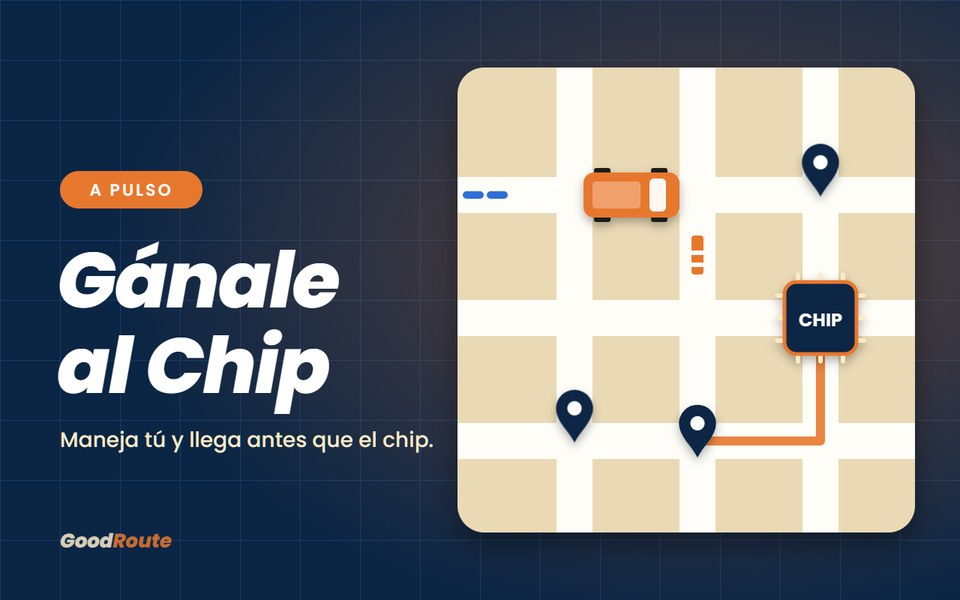
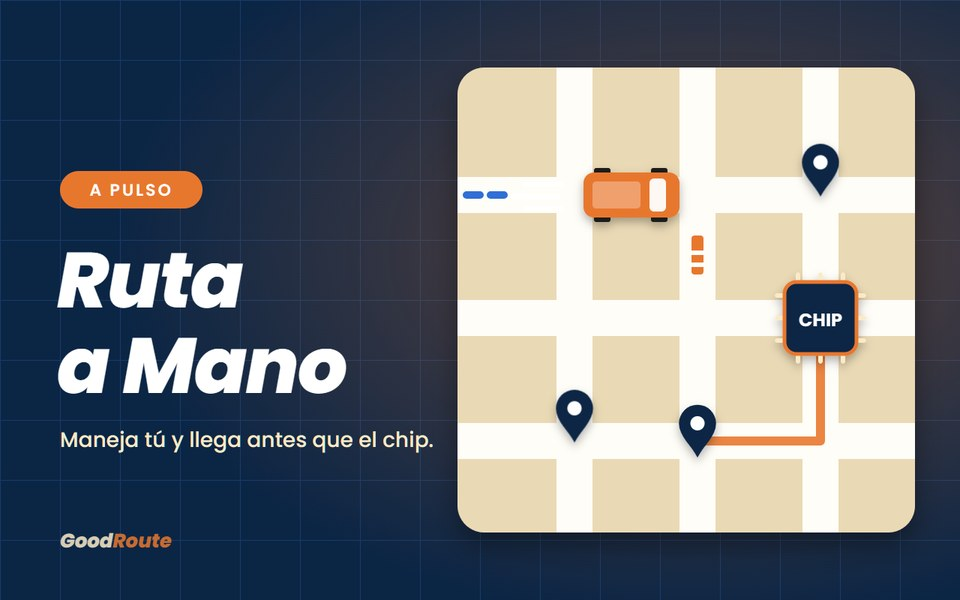
Renombrar "Gánale al Chip · A pulso" a "Ruta a Mano"
Nombre en la biblioteca (orden alfabético), pantalla de inicio, pestaña,
portada y README. La carpeta sigue siendo ganale-al-chip-pulso para no
romper enlaces ni el récord guardado.

Changed region(s): [[0.0625, 0.39, 0.375, 0.69]]

diff --git a/biblioteca/juegos.js b/biblioteca/juegos.js
@@ -45,14 +45,14 @@ window.CATALOGO = {
       muestra: "Calles cortadas", duracion: "60 s", rondas: "contrarreloj",
     },
     {
-      carpeta: "ganale-al-chip-pulso", nombre: "Gánale al Chip · A pulso", tipo: "individual", control: "mouse",
-      frase: "Maneja la camioneta por las calles y visita a todos antes que el chip.",
-      muestra: "Ruta óptima", duracion: "1 min", rondas: "3 niveles",
-    },
-    {
       carpeta: "jornada-perfecta", nombre: "Jornada Perfecta", tipo: "individual", control: "mouse",
       frase: "Ordena las visitas del día para llegar a la hora a cada cliente.",
       muestra: "Ventanas horarias", duracion: "1 min", rondas: "3 días",
+    },
+    {
+      carpeta: "ganale-al-chip-pulso", nombre: "Ruta a Mano", tipo: "individual", control: "mouse",
+      frase: "Maneja la camioneta por las calles y visita a todos antes que el chip.",
+      muestra: "Ruta óptima", duracion: "1 min", rondas: "3 niveles",
     },
     {
       oculto: true, carpeta: "ruta-memoria", url: "minijuegos-de-ruta/index.html?juego=memoria", nombre: "Memoriza la ruta", tipo: "individual", control: "mouse",

diff --git a/ganale-al-chip-pulso/index.html b/ganale-al-chip-pulso/index.html
@@ -3,7 +3,7 @@
 <head>
   <meta charset="UTF-8" />
   <meta name="viewport" content="width=device-width, initial-scale=1.0, maximum-scale=1.0, user-scalable=no" />
-  <title>Gánale al Chip · A pulso · GoodRoute</title>
+  <title>Ruta a Mano · GoodRoute</title>
   <link rel="icon" type="image/png" href="favicon.png" />
   <link rel="preconnect" href="https://fonts.googleapis.com" />
   <link rel="preconnect" href="https://fonts.gstatic.com" crossorigin />
@@ -30,8 +30,8 @@
   <section class="capa" id="inicio">
     <div class="tarjeta">
       <img class="logo" id="logo" src="logo-goodroute.gif" alt="GoodRoute" />
-      <p class="eyebrow">Versión a pulso</p>
-      <h1>Gánale al <span class="chip-txt">Chip</span></h1>
+      <p class="eyebrow">Maneja tú, contra el chip</p>
+      <h1>Ruta a <span class="chip-txt">Mano</span></h1>
       <p class="lead">Lleva tú la camioneta por las calles hasta todos los clientes, antes que el chip y sin tocar los bordes.</p>
       <ul class="reglas">
         <li><span class="ej">Arrastra</span> Agarra la camioneta en la base y arrástrala con el mouse o el dedo.</li>

diff --git a/biblioteca/portadas.html b/biblioteca/portadas.html
@@ -114,7 +114,7 @@
   </g>
 </svg>
 
-<!-- ============ 2) Gánale al Chip · A pulso ============ -->
+<!-- ============ 2) Ruta a Mano (carpeta ganale-al-chip-pulso) ============ -->
 <svg id="ganale-al-chip-pulso" viewBox="0 0 1280 800" width="1280" height="800">
   <defs>
     <clipPath id="panelChip"><rect x="610" y="90" width="610" height="620" rx="36"/></clipPath>
@@ -126,8 +126,8 @@
   <g transform="translate(80 0)">
     <rect x="0" y="228" width="190" height="50" rx="25" fill="#E8772E"/>
     <text class="tag" x="95" y="261" text-anchor="middle">A PULSO</text>
-    <text class="titulo" x="-4" y="410">Gánale</text>
-    <text class="titulo" x="-4" y="524">al Chip</text>
+    <text class="titulo" x="-4" y="410">Ruta</text>
+    <text class="titulo" x="-4" y="524">a Mano</text>
     <text class="sub" x="0" y="596">Maneja tú y llega antes que el chip.</text>
     <text class="marca" x="0" y="730">Good<tspan fill="#E8772E">Route</tspan></text>
   </g>

diff --git a/ganale-al-chip-pulso/estilos.css b/ganale-al-chip-pulso/estilos.css
@@ -1,4 +1,4 @@
-/* Estilos propios de Gánale al Chip · A pulso (la base está en comun.css). */
+/* Estilos propios de Ruta a Mano (la base está en comun.css). */
 .chip-txt { color: var(--gr); }
 .ej-peligro { background: var(--tarde-soft); color: var(--tarde); border-color: transparent; }
 .ej-chip { background: var(--gr-soft); color: var(--gr); border-color: transparent; }

diff --git a/ganale-al-chip-pulso/juego.js b/ganale-al-chip-pulso/juego.js
@@ -1,4 +1,4 @@
-/* Gánale al Chip · A pulso — minijuego del stand de Control Position (GoodRoute).
+/* Ruta a Mano (antes "Gánale al Chip · A pulso") — minijuego del stand de Control Position (GoodRoute).
  *
  * Versión de "Gánale al Chip" en que el jugador maneja: arrastra la camioneta
  * por las calles con el mouse o el dedo hasta visitar a todos los clientes.

diff --git a/README.md b/README.md
@@ -12,8 +12,8 @@ La biblioteca muestra 3 juegos, en orden alfabético:
 | Juego | Qué muestra | Duración | Carpeta |
 |---|---|---|---|
 | ¿Cuál es más corta? | Ojo de optimizador | 40 s | `minijuegos-de-ruta/` (`?juego=corta`) |
-| Gánale al Chip · A pulso | Ruta óptima | 1 min · 3 niveles | `ganale-al-chip-pulso/` |
 | Jornada Perfecta | Ventanas horarias | 1 min · 3 días | `jornada-perfecta/` |
+| Ruta a Mano | Ruta óptima | 1 min · 3 niveles | `ganale-al-chip-pulso/` |
 
 **Minijuegos de ruta ocultos.** `minijuegos-de-ruta/index.html` es un solo archivo con 5 minijuegos. Además de *¿Cuál es más corta?*, tiene *Carril libre*, *Desvío*, *Despacho relámpago* y *Memoriza la ruta*, que están ocultos en la biblioteca (`oculto: true` en `biblioteca/juegos.js`). Para mostrar uno, borra ese `oculto: true`.
 
@@ -37,7 +37,7 @@ En la pantalla de inicio de cada juego se elige cuántos juegan:
 
 Cómo está hecho:
 - **¿Cuál es más corta?:** cada celular manda una "foto" del estado de su juego y la pantalla la redibuja con el mismo código.
-- **Gánale al Chip · A pulso y Jornada Perfecta:** usan `multi.js` (y `multi.css`), que se suma al juego sin cambiar su lógica. Cada celular manda una imagen reducida de su pantalla unas 3 veces por segundo.
+- **Ruta a Mano y Jornada Perfecta:** usan `multi.js` (y `multi.css`), que se suma al juego sin cambiar su lógica. Cada celular manda una imagen reducida de su pantalla unas 3 veces por segundo.
 
 ### Firebase
 

diff --git a/ganale-al-chip-pulso/README.md b/ganale-al-chip-pulso/README.md
@@ -1,6 +1,6 @@
-# Gánale al Chip · A pulso
+# Ruta a Mano
 
-Minijuego del stand de Control Position para mostrar **GoodRoute**. Es una versión de *Gánale al Chip* en que el jugador maneja la camioneta.
+Minijuego del stand de Control Position para mostrar **GoodRoute**. Antes se llamaba *Gánale al Chip · A pulso*: es una versión de *Gánale al Chip* en que el jugador maneja la camioneta. La carpeta conserva el nombre `ganale-al-chip-pulso`.
 
 > Lleva tú la camioneta por las calles hasta todos los clientes, antes que el chip y sin tocar los bordes.
 
